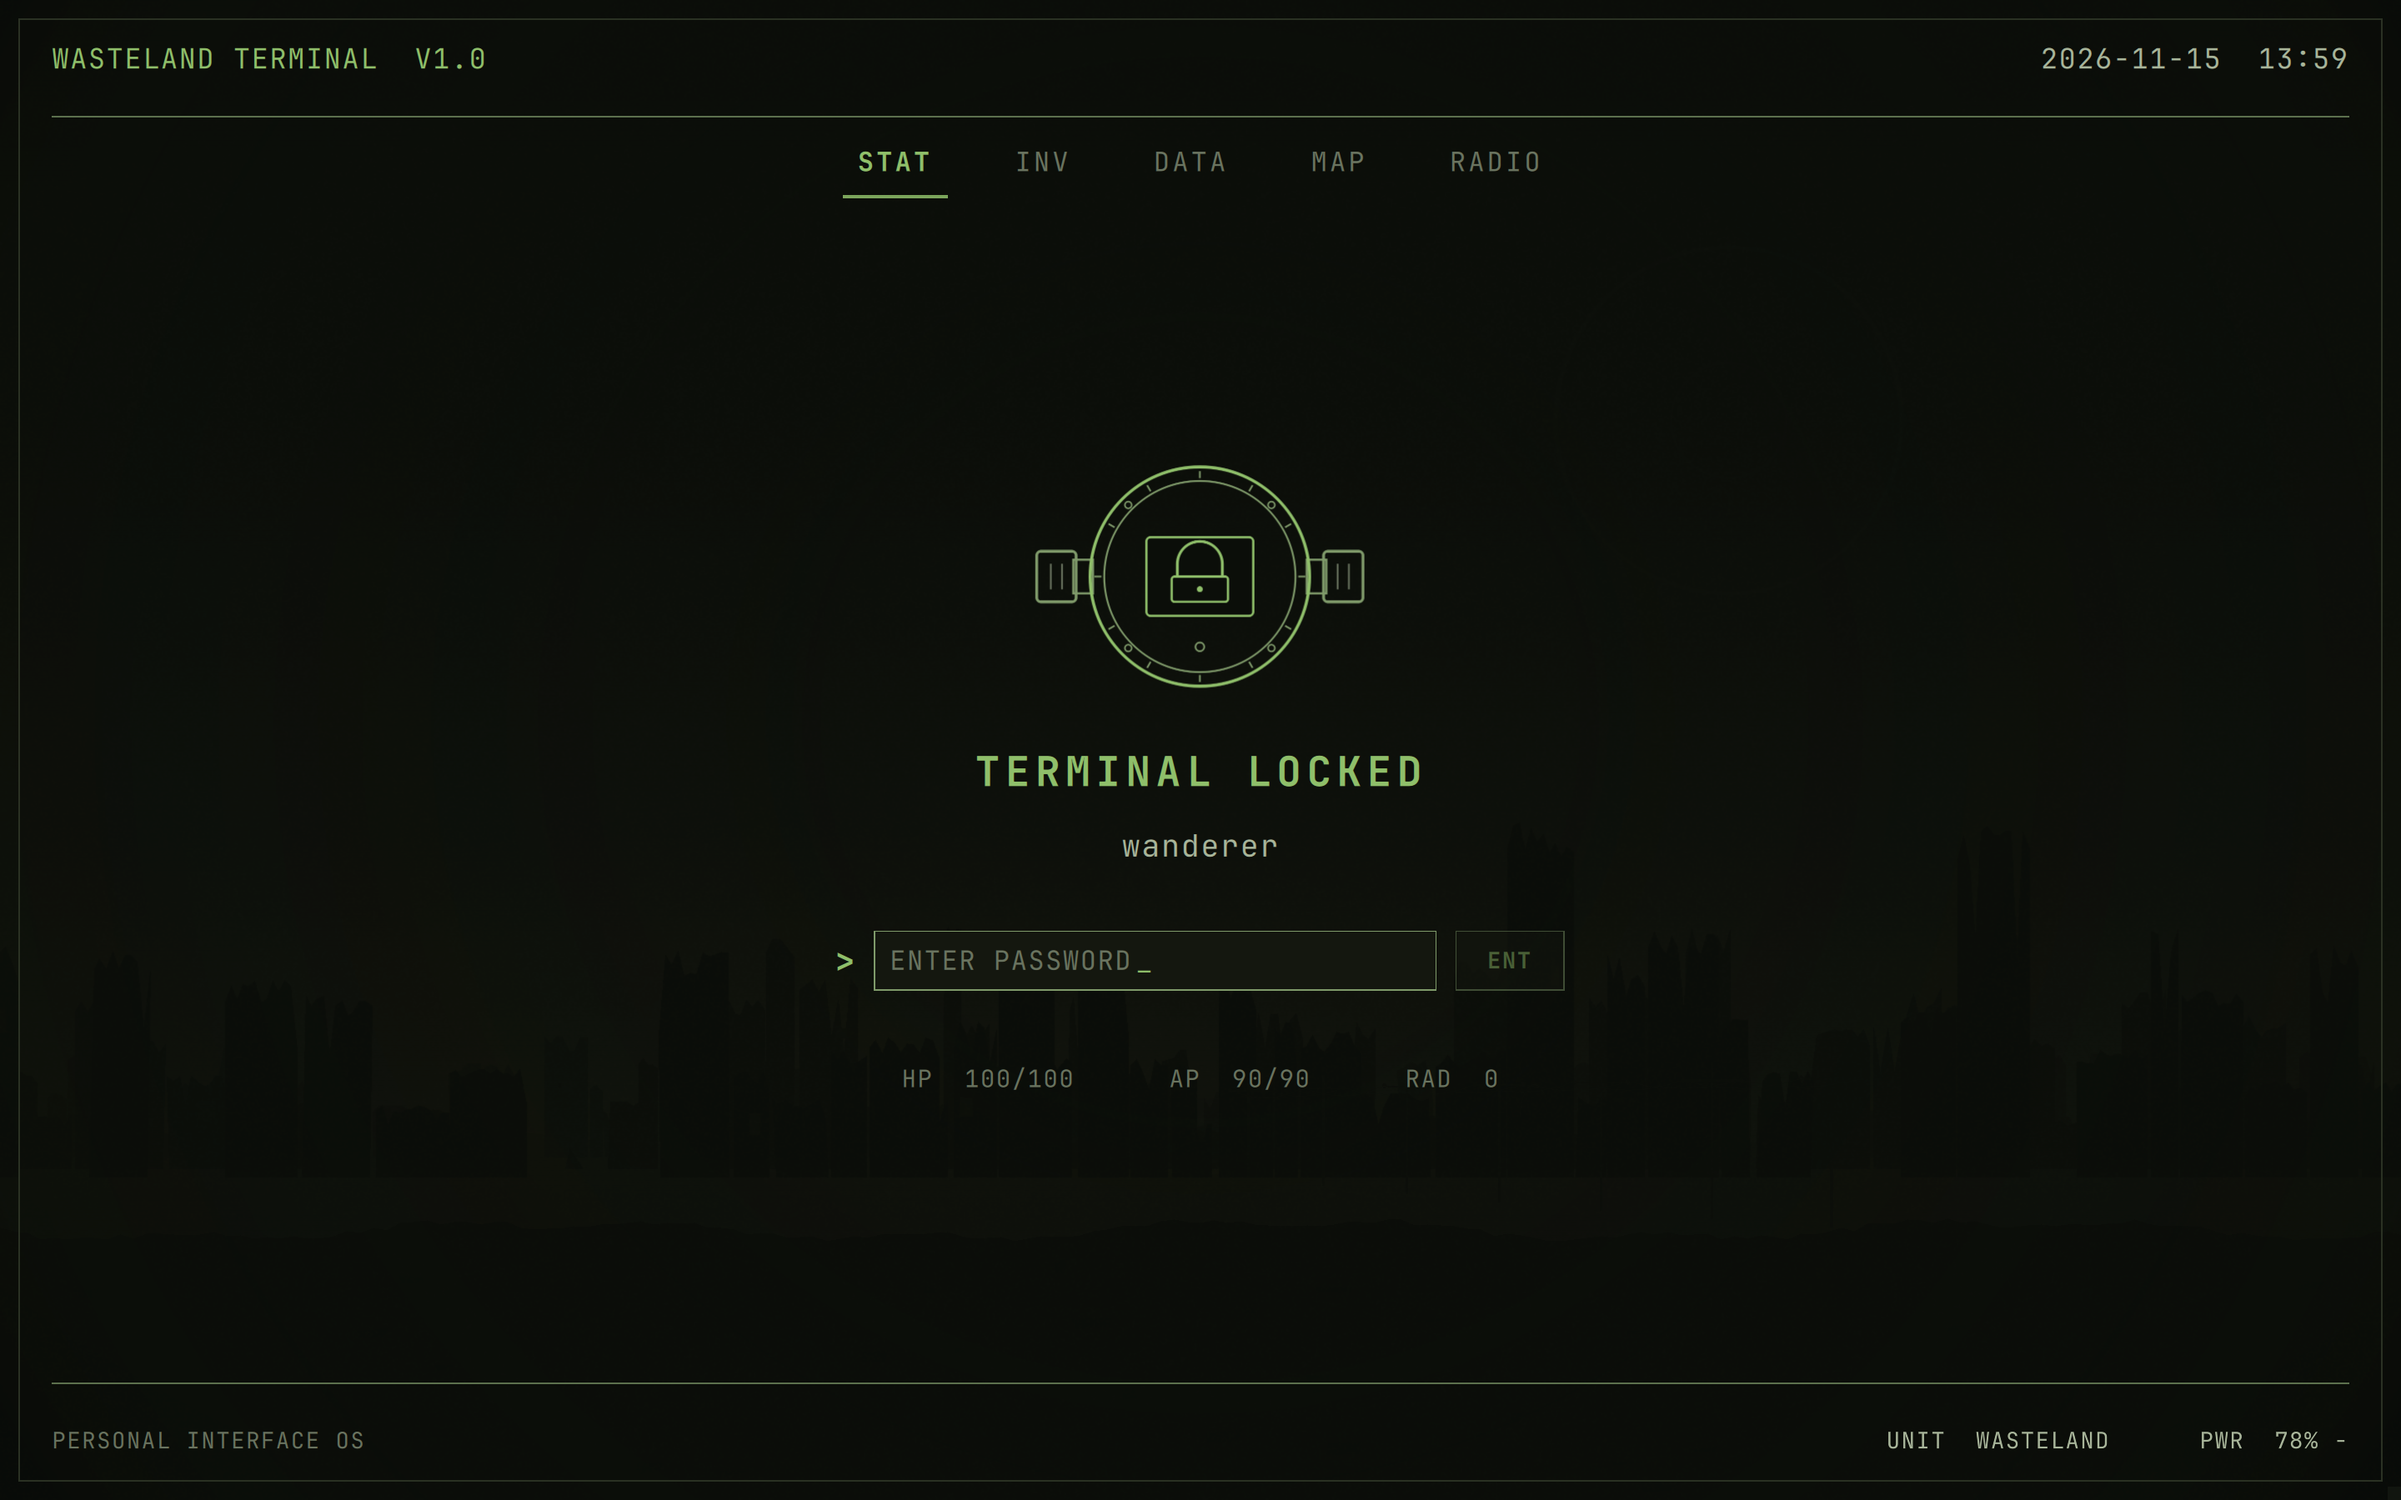
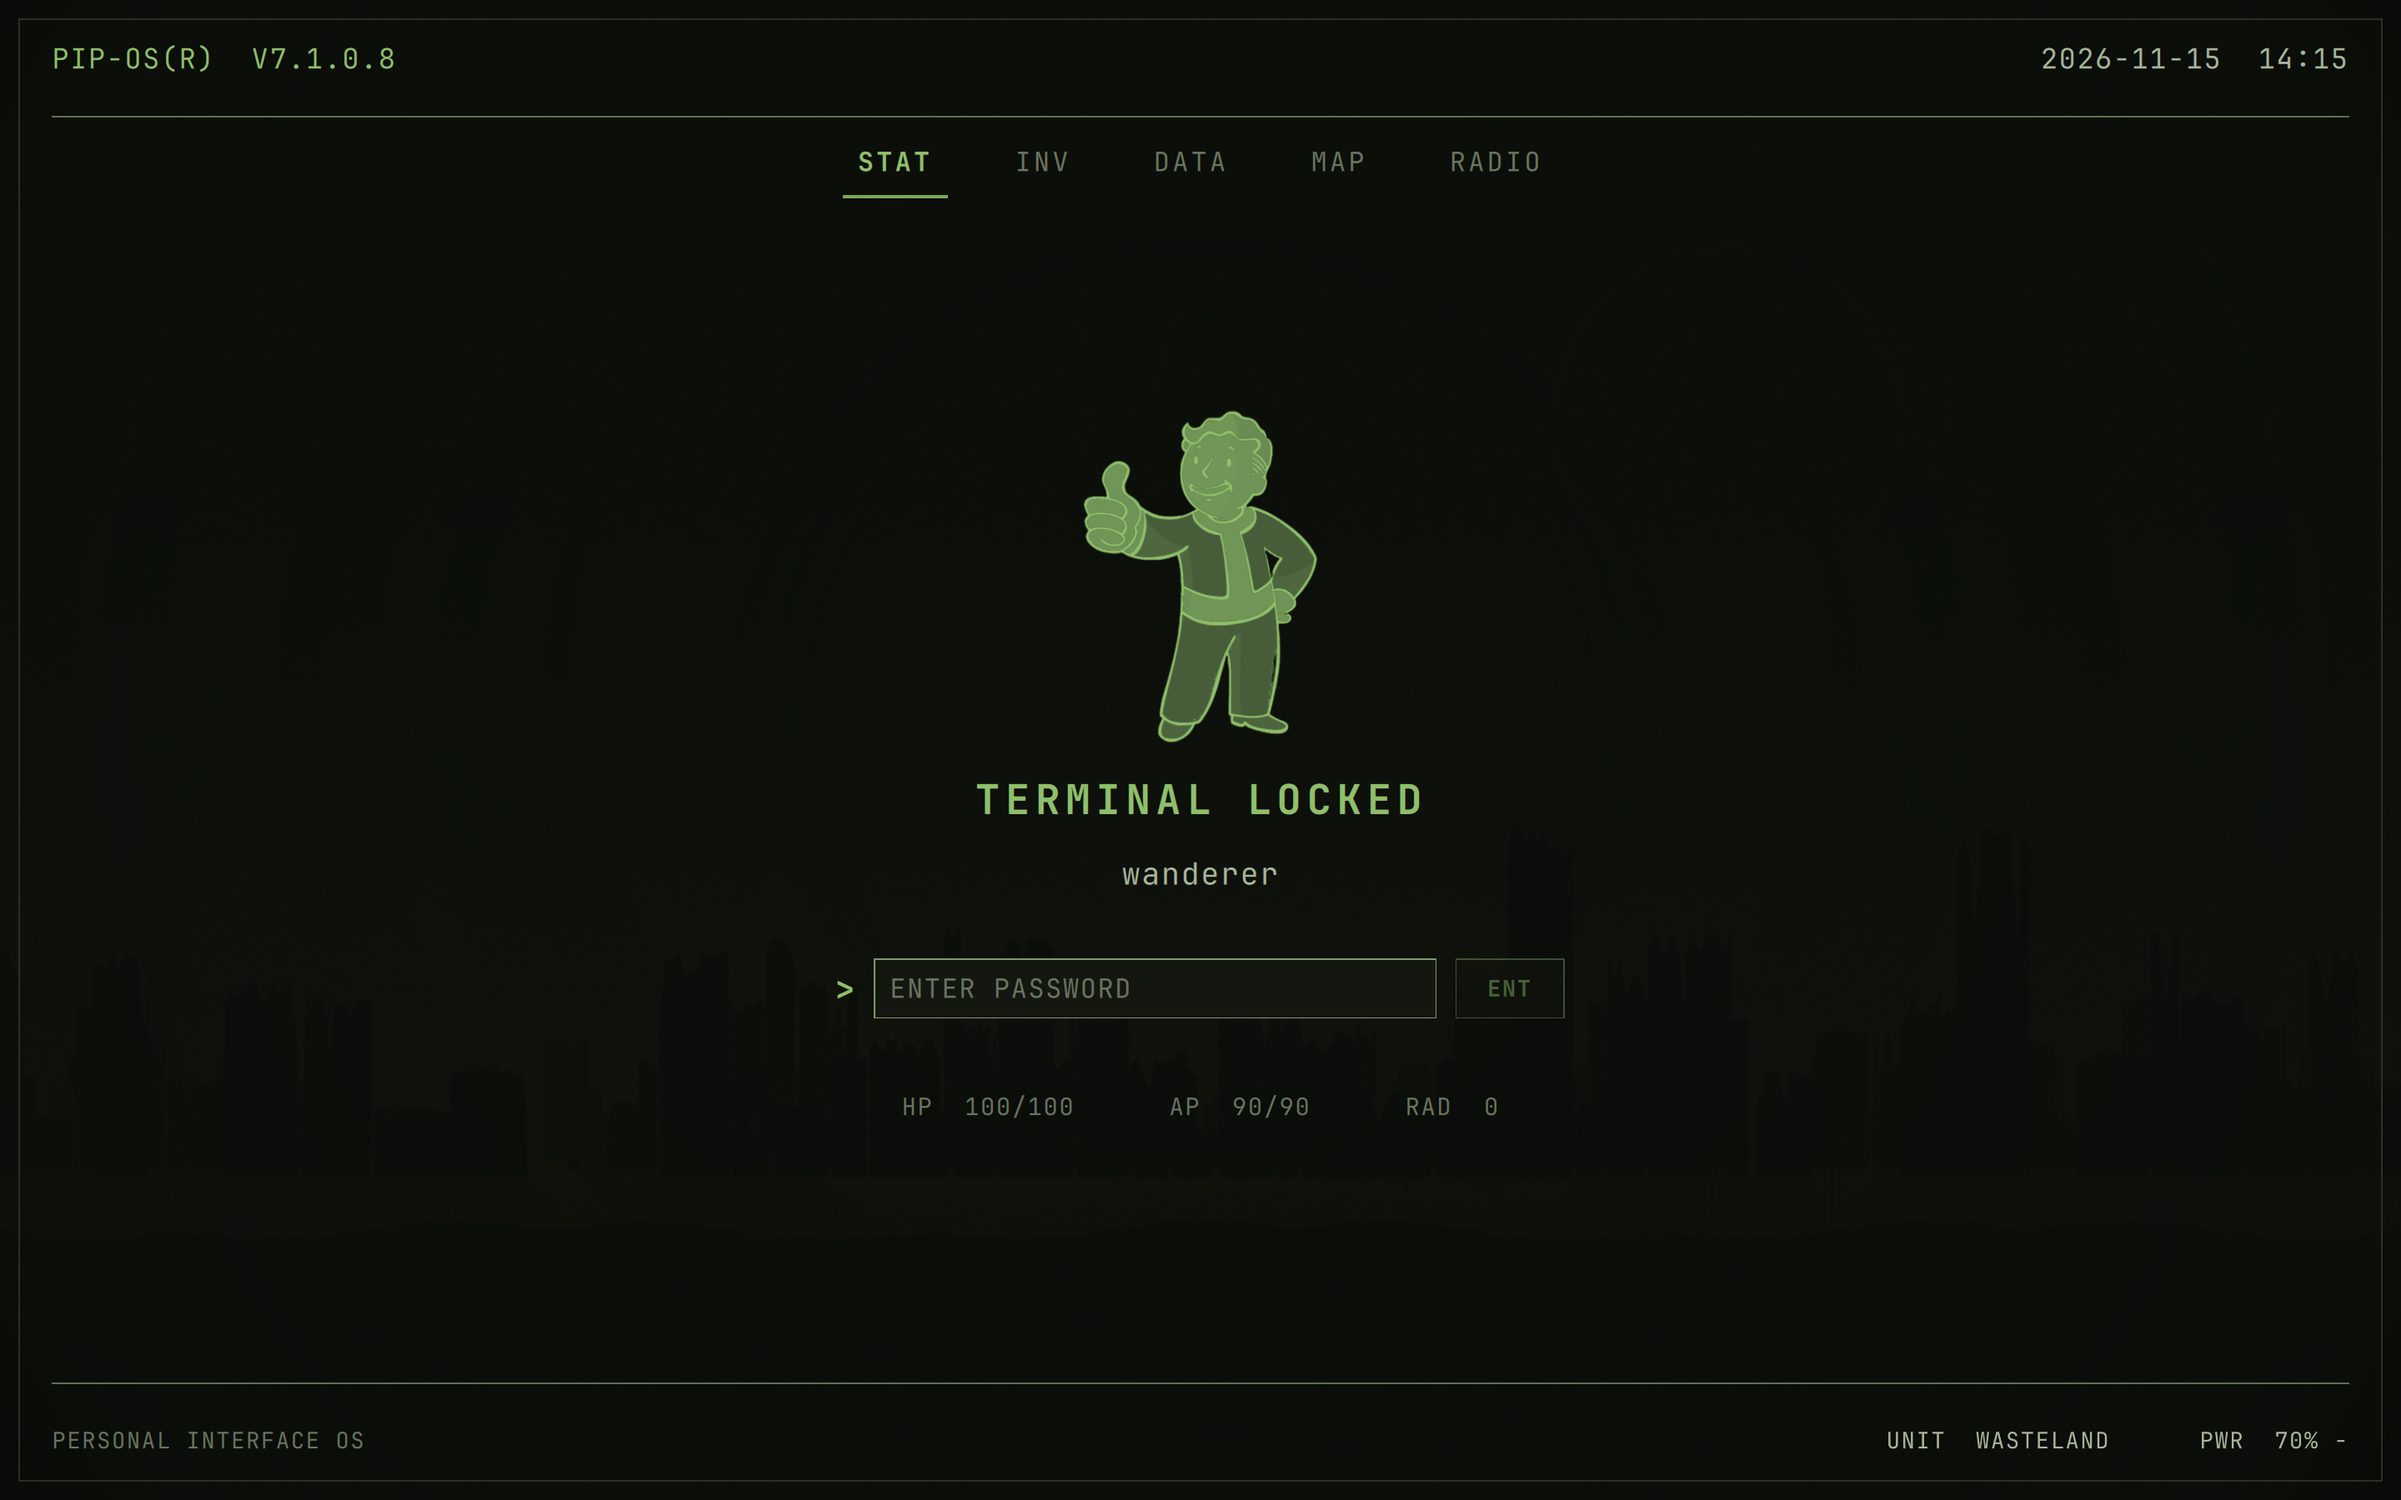
Lock screen: use the Pip-Boy view with the Vault Boy mascot, as on Matt's laptops

diff --git a/extras/plugins/wasteland.lock/Service.qml b/extras/plugins/wasteland.lock/Service.qml
@@ -48,23 +48,23 @@ Item {
   property bool previewVisible: false
 
   // Wasteland theme bundle (Nov 15, 2026). The Wasteland theme's theme-set
-  // hook (themes/wasteland/extras/on-theme-set) writes this file: terminal
+  // hook (themes/wasteland/extras/on-theme-set) writes this file: Pip-Boy
   // lock view and CRT effects on with Wasteland, off with any other theme.
   // Per-feature switches: themes/wasteland/extras/features.conf. A missing or
   // unreadable file means everything off (stock lock view), never no lock.
   readonly property string extrasStatePath: stateHome + "/omarchy/wasteland-extras.json"
-  property bool extrasTerminalLock: false
+  property bool extrasPipBoyLock: false
   property bool extrasCrt: false
 
   function applyExtras(text) {
-    var term = false
+    var pip = false
     var crt = false
     try {
       var j = JSON.parse(text || "{}")
-      term = j.lockView === "terminal"
+      pip = j.lockView === "pipboy"
       crt = j.crt === true
     } catch (e) {}
-    extrasTerminalLock = term
+    extrasPipBoyLock = pip
     extrasCrt = crt
     try { if (!crt) crtCancel() } catch (e) {}
   }
@@ -628,18 +628,18 @@ Item {
 
       color: Commons.Color.background
 
-      // terminal view with the Wasteland theme, stock (blur-free) view otherwise.
+      // Pip-Boy view with the Wasteland theme, stock (blur-free) view otherwise.
       // Both are compiled with this file, so neither can fail to load at lock time.
       Loader {
         id: lockView
         anchors.fill: parent
         focus: true
-        sourceComponent: root.extrasTerminalLock ? terminalLockComponent : stockLockComponent
+        sourceComponent: root.extrasPipBoyLock ? pipBoyLockComponent : stockLockComponent
       }
 
       Component {
-        id: terminalLockComponent
-        TerminalLockView {
+        id: pipBoyLockComponent
+        PipBoyLockView {
           backgroundPath: root.backgroundPath
           videoPosterPath: root.videoPosterPath
           backgroundVersion: root.backgroundVersion
@@ -699,12 +699,12 @@ Item {
 
     Loader {
       anchors.fill: parent
-      sourceComponent: root.extrasTerminalLock ? terminalPreviewComponent : stockPreviewComponent
+      sourceComponent: root.extrasPipBoyLock ? pipBoyPreviewComponent : stockPreviewComponent
     }
 
     Component {
-      id: terminalPreviewComponent
-      TerminalLockView {
+      id: pipBoyPreviewComponent
+      PipBoyLockView {
         backgroundPath: root.backgroundPath
         videoPosterPath: root.videoPosterPath
         backgroundVersion: root.backgroundVersion

diff --git a/extras/plugins/wasteland.lock/PipBoyLockView.qml b/extras/plugins/wasteland.lock/PipBoyLockView.qml
@@ -220,7 +220,7 @@ Item {
 
   Image {
     anchors.fill: parent
-    source: Qt.resolvedUrl("scanlines.png")
+    source: Qt.resolvedUrl("pipboy-scanlines.png")
     fillMode: Image.Tile
     smooth: false
     asynchronous: true
@@ -257,7 +257,7 @@ Item {
       anchors.left: parent.left
       anchors.verticalCenter: parent.verticalCenter
       textFormat: Text.PlainText
-      text: "WASTELAND TERMINAL  V1.0"
+      text: "PIP-OS(R)  V7.1.0.8"
       color: root.colorPhosphor
       font.family: root.monoFont
       font.pixelSize: Math.round(15 * root.ui)
@@ -285,7 +285,7 @@ Item {
     }
   }
 
-  // Decorative wrist-terminal tabs
+  // Decorative Pip-Boy tabs
   Row {
     id: tabRow
     anchors.top: header.bottom
@@ -335,9 +335,9 @@ Item {
 
     Image {
       anchors.horizontalCenter: parent.horizontalCenter
-      source: Qt.resolvedUrl("terminal-emblem.svg")
-      height: Math.round(150 * root.ui)
-      width: Math.round(height * 240 / 200)
+      source: Qt.resolvedUrl("pipboy-mascot.png")
+      height: Math.round(180 * root.ui)
+      width: Math.round(height * 369 / 520)
       sourceSize.width: width * 2
       sourceSize.height: height * 2
       smooth: true

diff --git a/README.md b/README.md
@@ -27,7 +27,7 @@ Chromium, VS Code and the Omarchy shell all take their colours from
 | | |
 |---|---|
 | ![Lock screen](images/lock.png) | ![Screensaver](images/screensaver.png) |
-| **Terminal lock screen.** Wrist-terminal styling, plus a CRT power-off when it locks and a power-on when it unlocks. | **Overseer screensaver.** Terminal logs type out slowly beside a radiation trefoil. It uses almost no CPU. |
+| **Pip-Boy lock screen.** PIP-OS styling with the Vault Boy mascot, plus a CRT power-off when it locks and a power-on when it unlocks. | **Overseer screensaver.** Terminal logs type out slowly beside a radiation trefoil. It uses almost no CPU. |
 | ![Boot animation](images/boot.png) | ![Boot splash](images/boot-splash.png) |
 | **Boot animation** after login (press any key to skip). | It ends on a splash, then the desktop powers on. |
 
@@ -72,7 +72,7 @@ Run it again after `omarchy theme update` to pick up new plugin versions.
 Edit `~/.config/omarchy/wasteland/features.conf`:
 
     BOOT=1          # boot animation after login
-    LOCK_VIEW=1     # terminal lock screen (0 = Omarchy-style lock, no blur)
+    LOCK_VIEW=1     # Pip-Boy lock screen (0 = Omarchy-style lock, no blur)
     CRT=1           # tube-TV power-off/on: lock, unlock, login, shutdown, reboot
     SCREENSAVER=1   # overseer screensaver
     BAR_TABS=1      # STAT INV DATA MAP RADIO workspace tabs
@@ -125,13 +125,18 @@ scripts live in the theme folder.
 
 ## Credits
 
-- Theme, wallpaper, trefoil drawing, wrist-terminal emblem, and all boot,
-  lock and screensaver text by Matt Volz. All are original. The wallpaper was
+- Theme, wallpaper, trefoil drawing, and all boot and screensaver text by
+  Matt Volz. All are original. The wallpaper was
   generated from scratch, with no third-party art or logos. The trefoil is the
   standard radiation hazard symbol, newly drawn.
 - The extras plugins are modified copies of Omarchy's own shell plugins,
   © David Heinemeier Hansson, MIT licensed. See `NOTICE.md`.
-- Not affiliated with or endorsed by any game studio or by Omarchy.
+- Vault Boy, Pip-Boy and PIP-OS are trademarks of Bethesda Softworks LLC
+  (Fallout). The lock screen mascot
+  (`extras/plugins/wasteland.lock/pipboy-mascot.png`) and the PIP-OS lock text
+  are non-commercial fan art. They are not covered by this theme's MIT license.
+  This theme is not affiliated with or endorsed by Bethesda or ZeniMax.
+- Not affiliated with or endorsed by Omarchy.
 
 ## License
 
